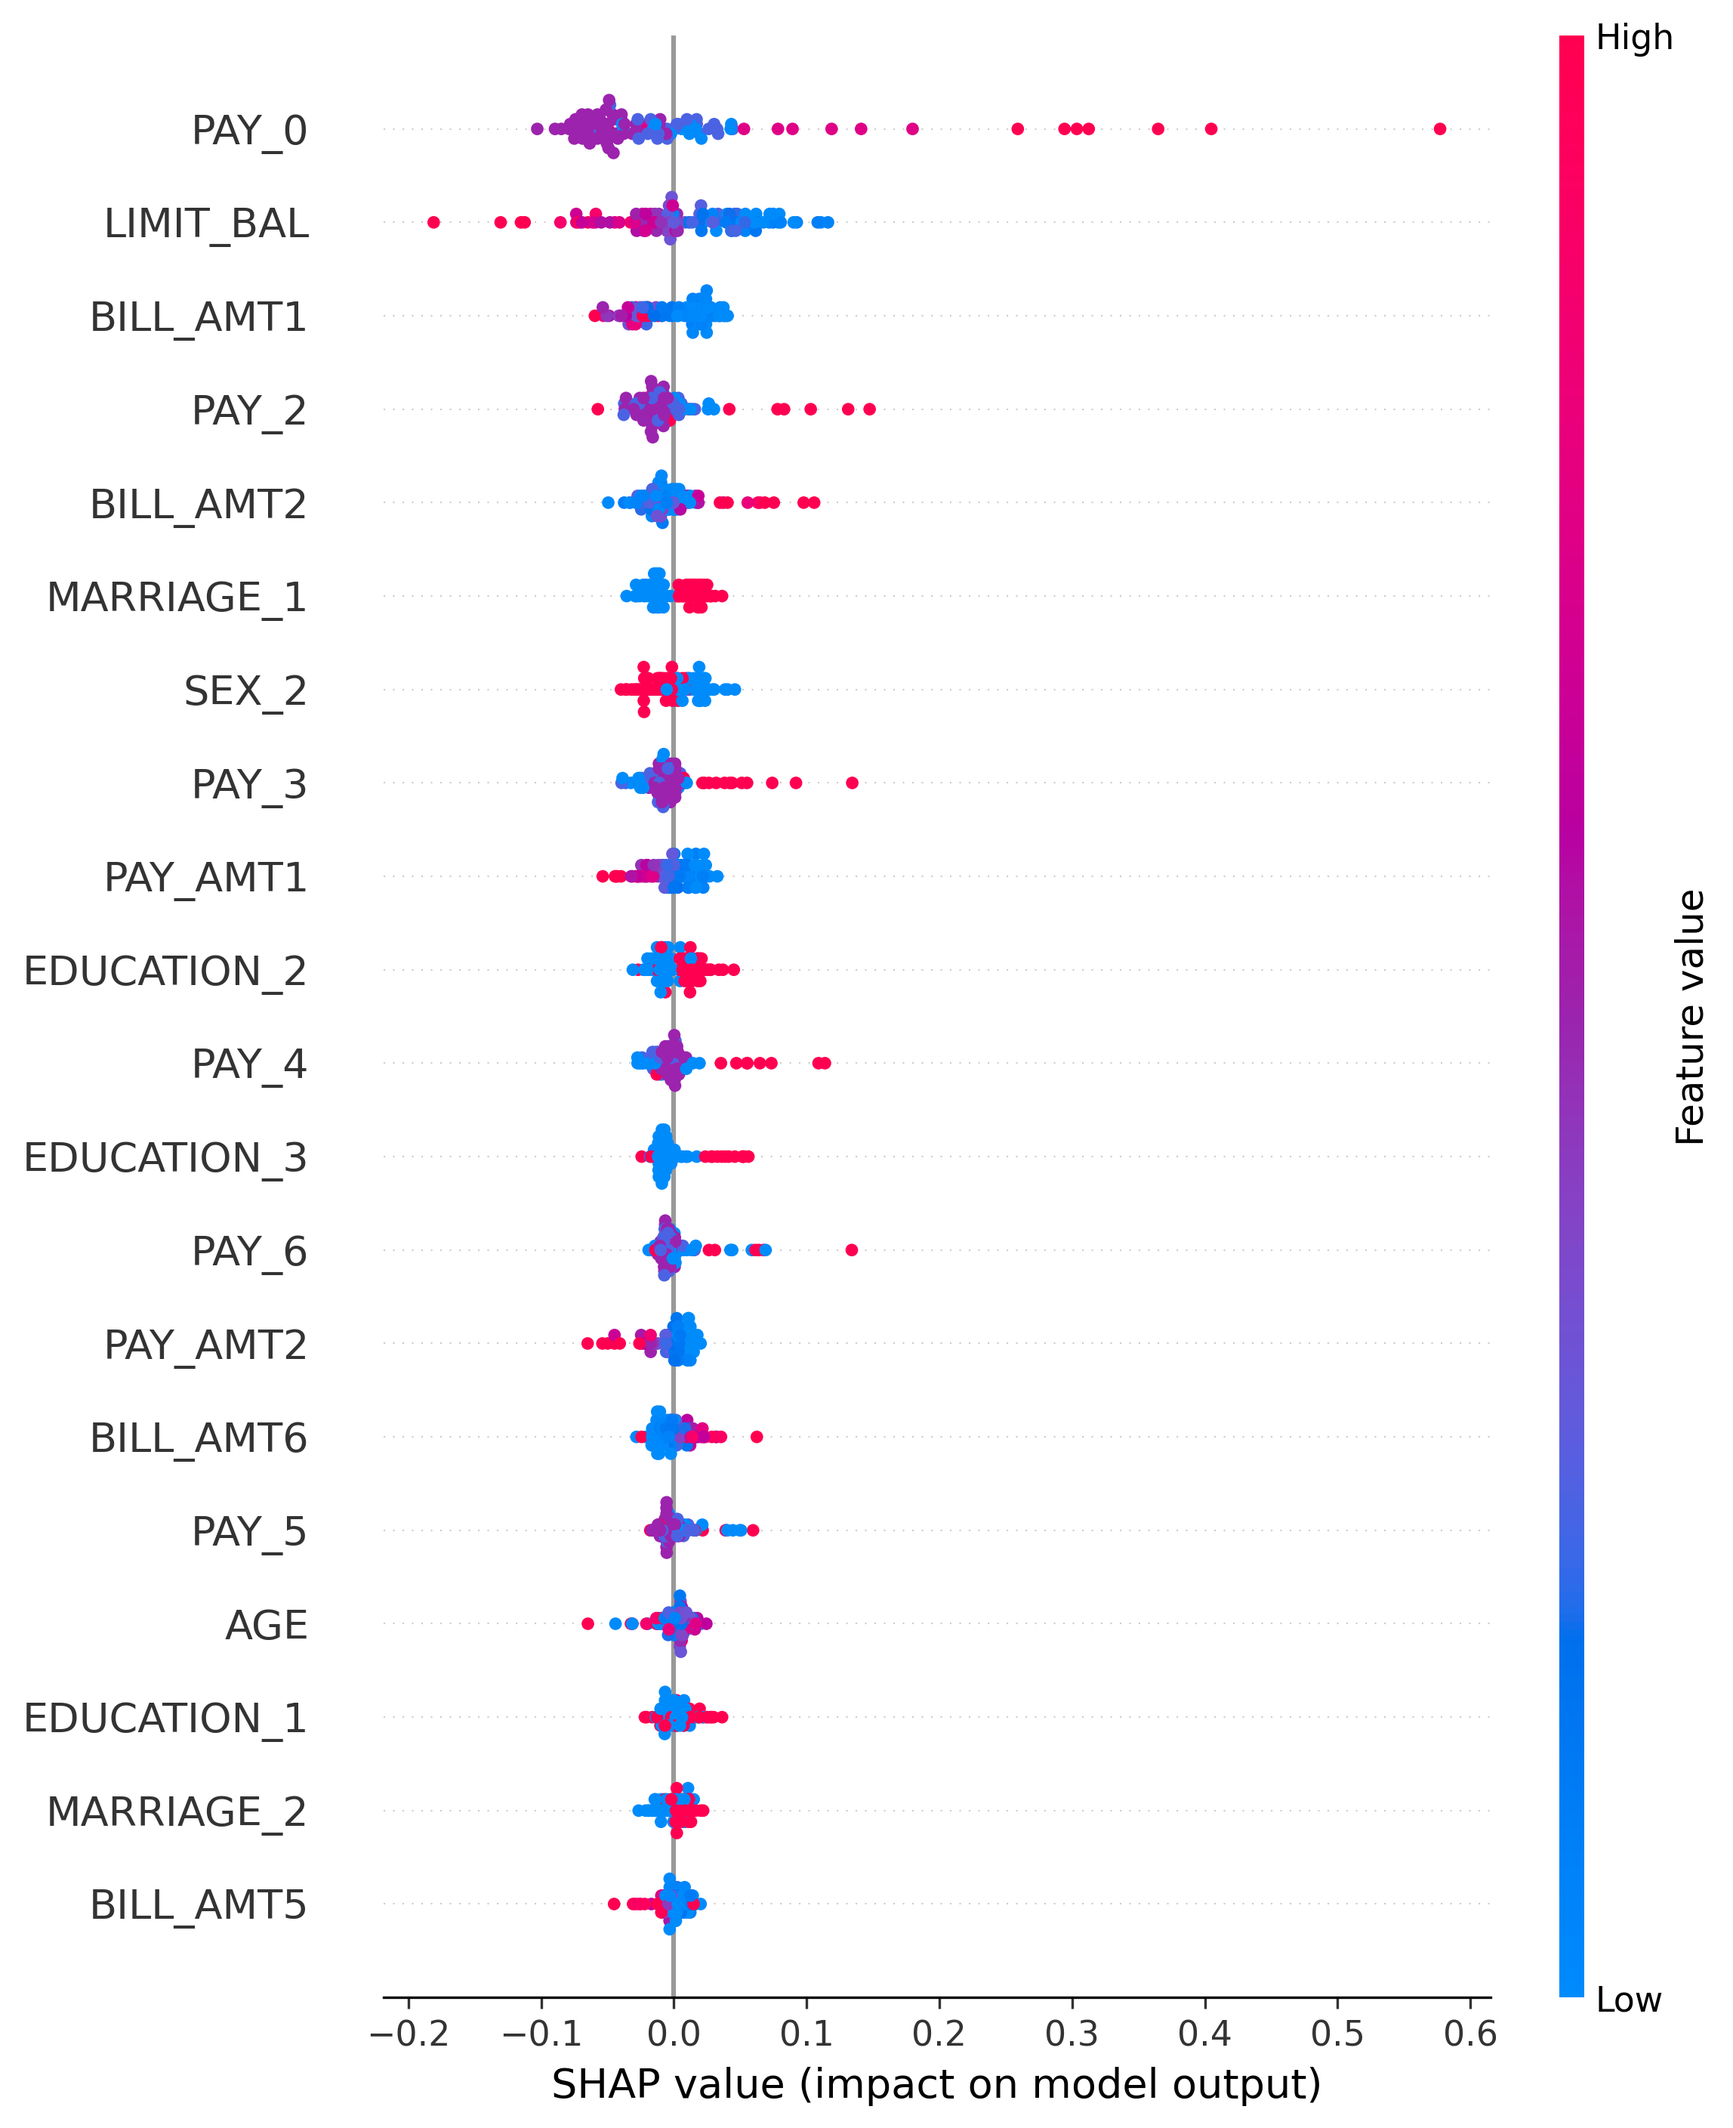
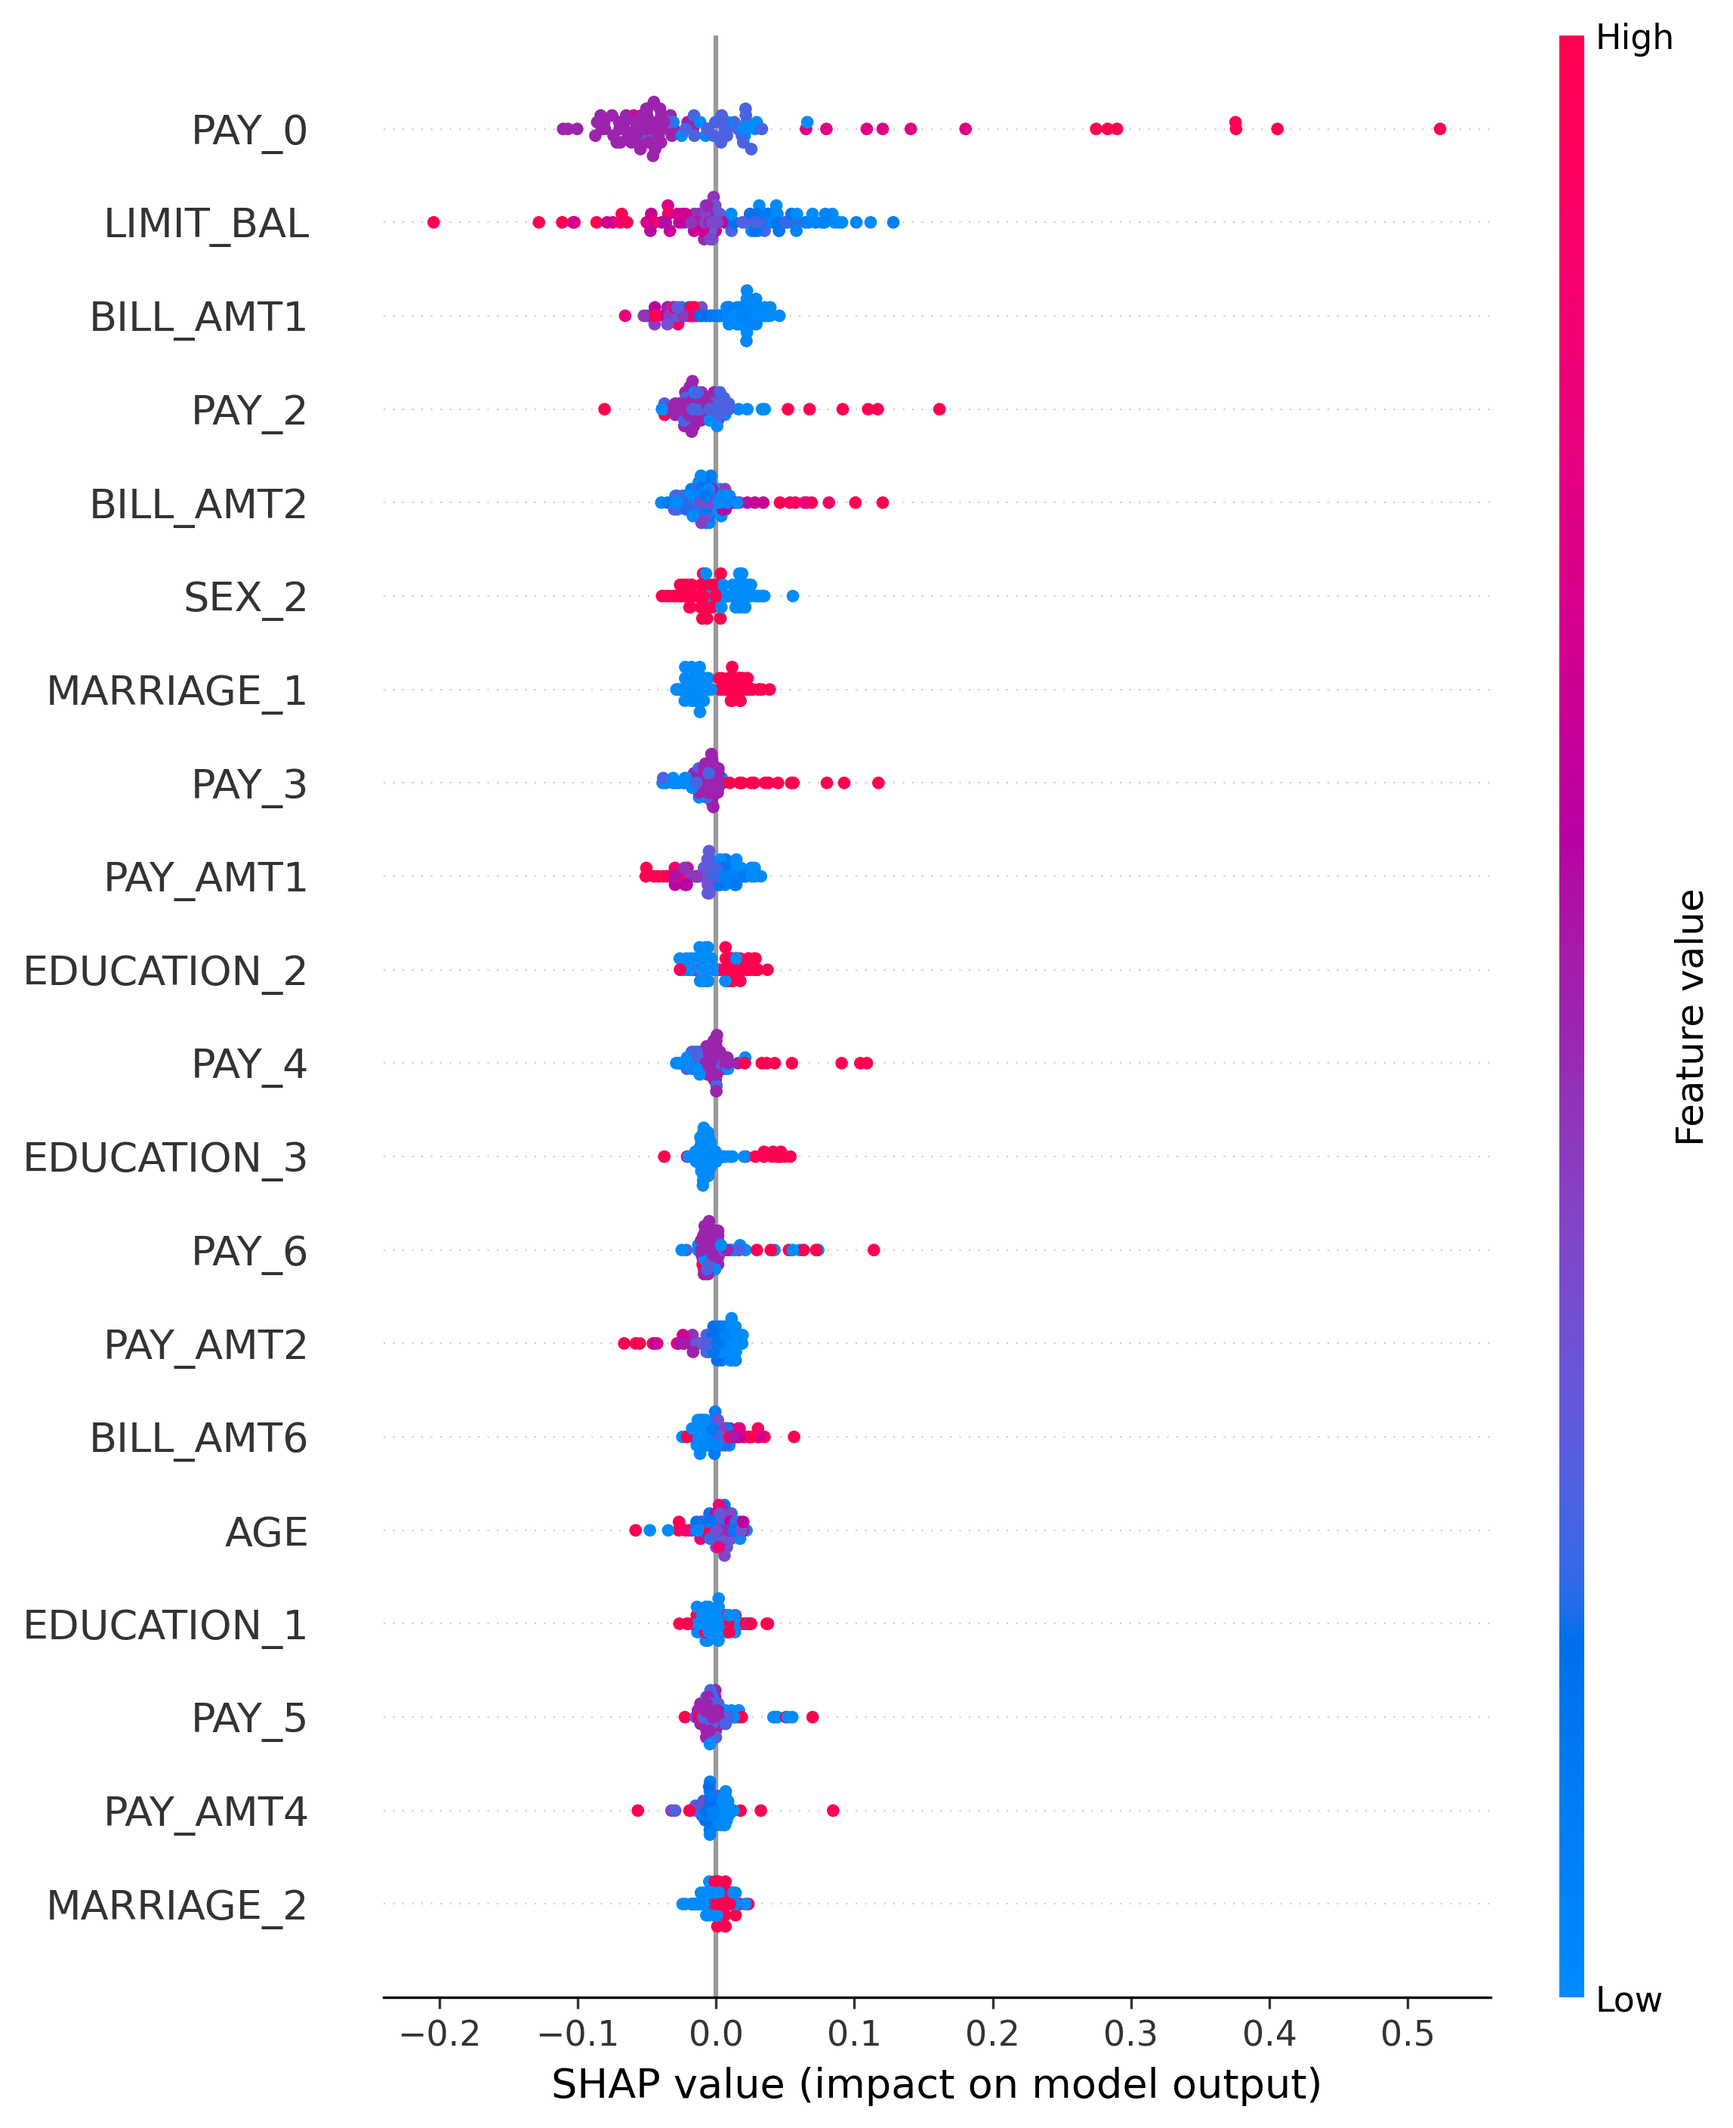
added confusion matrix and solved issues with the graph representations

diff --git a/credit_fraud.py b/credit_fraud.py
@@ -16,6 +16,7 @@ from tensorflow.keras.models import load_model
 import shap
 import io
 import base64
+import matplotlib.ticker as mtick
 from dotenv import load_dotenv
 import os
 
@@ -455,6 +456,15 @@ elif section == "Credit Default Prediction":
     test_data = X_test.copy()
     test_data['DEFAULT'] = test_defaults
 
+    raw_train_array = scaler.inverse_transform(X_train.values)
+    raw_train = pd.DataFrame(raw_train_array, columns=feature_cols)
+    raw_train['DEFAULT'] = train_defaults
+
+    pay_cols = ['PAY_0', 'PAY_2', 'PAY_3', 'PAY_4', 'PAY_5', 'PAY_6']
+    for col in pay_cols:
+        raw_train[col] = raw_train[col].round().astype(int)
+    
+
     @st.cache_data  # For data (X_train)
     def load_shap_data():
         return pd.read_csv('X_train.csv')
@@ -479,11 +489,31 @@ elif section == "Credit Default Prediction":
     st.title("Credit Default Prediction System")
 
     # Metrics section
-    st.header("Model Performance")
-    st.metric("Accuracy", f"{ACCURACY:.2%}")
-    st.metric("Sensitivity", f"{SENSITIVITY:.2%}")
-    st.metric("Specificity", f"{SPECIFICITY:.2%}")
-    
+    col1, col2 = st.columns(2)
+    with col1:
+        st.header("Model Performance")
+        st.metric("Accuracy", f"{ACCURACY:.2%}")
+        st.metric("Sensitivity", f"{SENSITIVITY:.2%}")
+        st.metric("Specificity", f"{SPECIFICITY:.2%}")
+
+    with col2:
+        st.subheader("Confusion Matrix")
+        y_pred_probs = model.predict(X_test.values)
+        y_pred = (y_pred_probs > 0.4).astype(int)  # Using same threshold as prediction interface
+
+        # Create confusion matrix
+        cm = np.array([[2213, 137],[89, 661]])
+
+        fig, ax = plt.subplots(figsize=(6, 4))
+        sns.heatmap(cm, annot=True, fmt="d", cmap="Blues", 
+                    xticklabels=["No Default", "Default"], 
+                    yticklabels=["No Default", "Default"], ax=ax,
+                    annot_kws={"size": 14})
+        ax.set_title("Confusion Matrix", fontsize=14)
+        ax.set_xlabel("Predicted Label", fontsize=12)
+        ax.set_ylabel("True Label", fontsize=12)
+        st.pyplot(fig)
+
     # New Visualization Section
     st.header("Data Visualizations")
     
@@ -578,7 +608,8 @@ elif section == "Credit Default Prediction":
         fig, ax = plt.subplots(figsize=(10, 6))
         
         # Group data by payment status and default, then count
-        payment_default_counts = pd.crosstab(train_data[pay_column], train_data['DEFAULT'])
+        payment_default_counts = pd.crosstab(raw_train[pay_column], raw_train['DEFAULT'])
+
         
         # Rename columns for clarity
         payment_default_counts.columns = ['No Default', 'Default']
@@ -620,7 +651,7 @@ elif section == "Credit Default Prediction":
         fig, ax = plt.subplots(figsize=(10, 6))
         
         # Create DataFrame with only required columns
-        plot_data = train_data[[selected_feature, 'DEFAULT']].copy()
+        plot_data = raw_train[[selected_feature, 'DEFAULT']].copy()
         plot_data['DEFAULT'] = plot_data['DEFAULT'].map({0: 'No Default', 1: 'Default'})
         
         # Create boxplot
@@ -630,6 +661,11 @@ elif section == "Credit Default Prediction":
         plt.title(f'{selected_feature} Distribution by Default Status')
         plt.ylabel(selected_feature)
         plt.xlabel('Default Status')
+        if selected_feature == "AGE":
+            ax.set_ylabel("Age (years)")
+        elif selected_feature == "LIMIT_BAL":
+            ax.set_ylabel("Credit Limit (NT$)")
+            plt.gca().yaxis.set_major_formatter(mtick.FuncFormatter(lambda x, _: f'{int(x):,}'))
         plt.tight_layout()
         
         # Display in Streamlit
